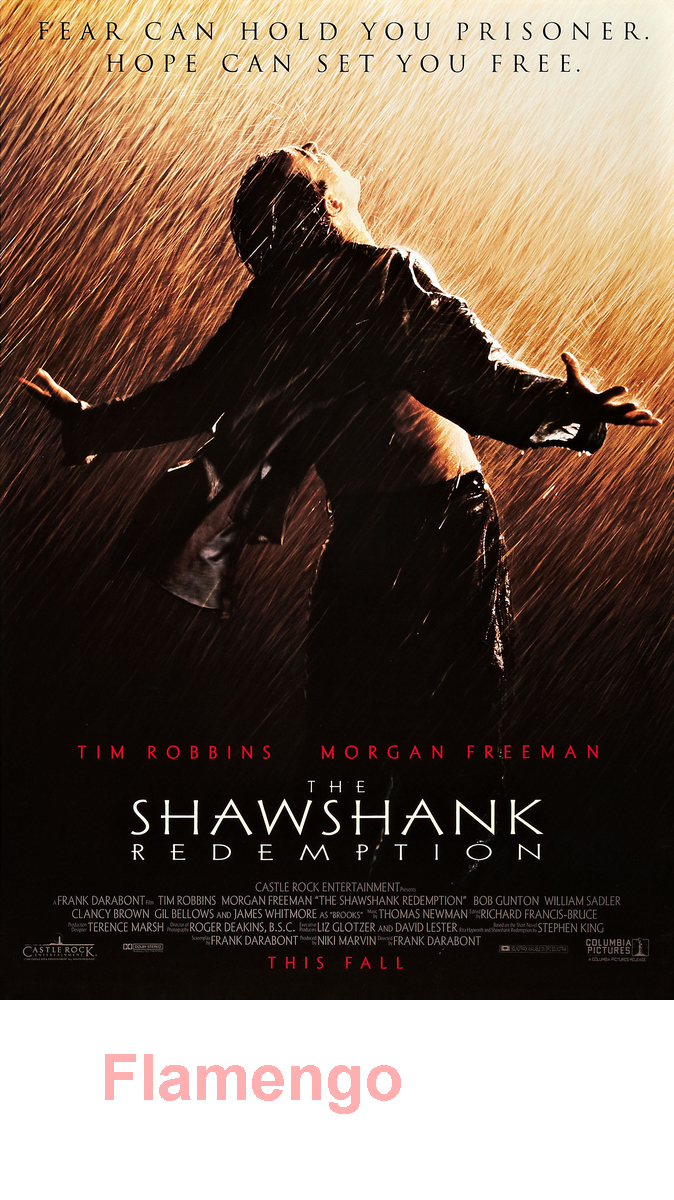
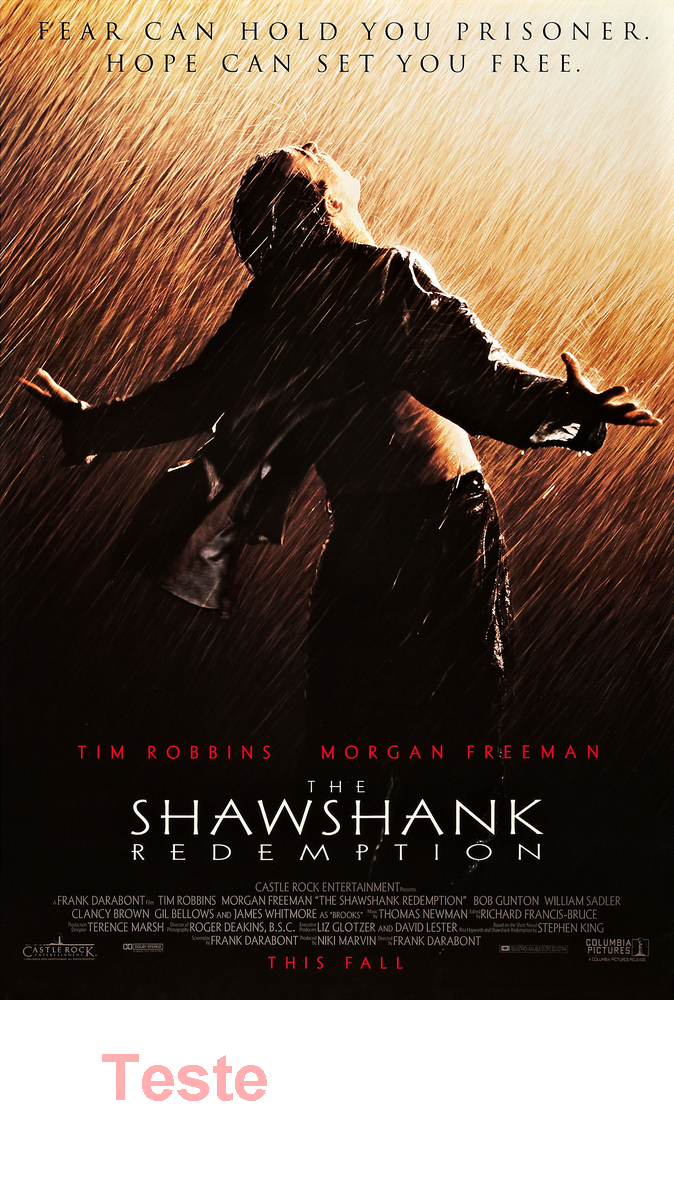
modificando git ignore

Changed region(s): [[0.1558, 0.8633, 0.592, 0.925]]

diff --git a/src/main/java/com/hugo/services/GeradoraDeFigurinhas.java b/src/main/java/com/hugo/services/GeradoraDeFigurinhas.java
@@ -34,7 +34,7 @@ public class GeradoraDeFigurinhas {
         graphics.setColor(Color.pink);
 
         // escrever um frase na nova imagem
-        graphics.drawString("Flamengo", 100, novaAltura - 100);
+        graphics.drawString("Teste", 100, novaAltura - 100);
 
         // escrever a nova imagem em um arquivo
         ImageIO.write(novaImagem, "png", new File("saida/" + nomeArquivo));
